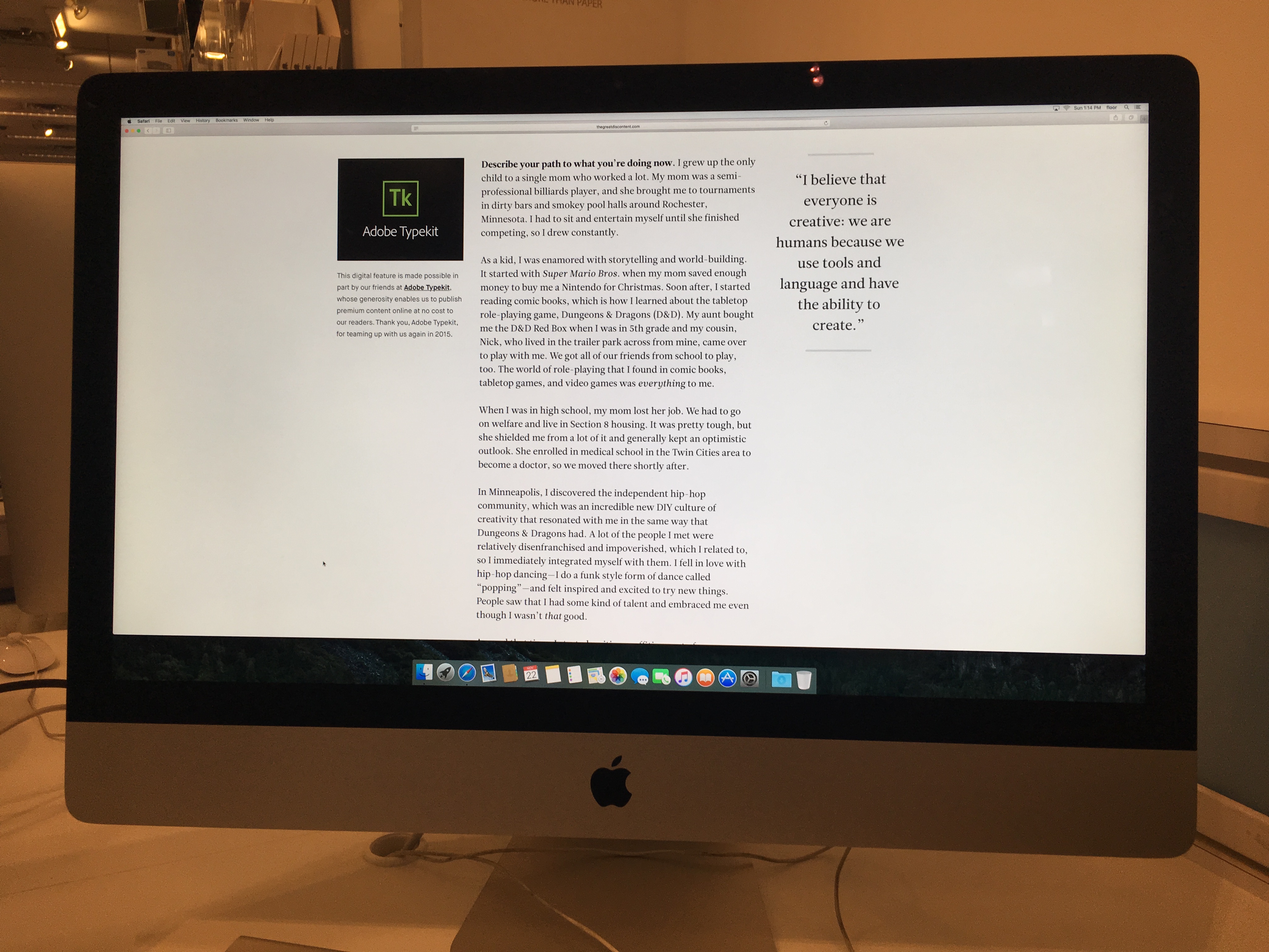
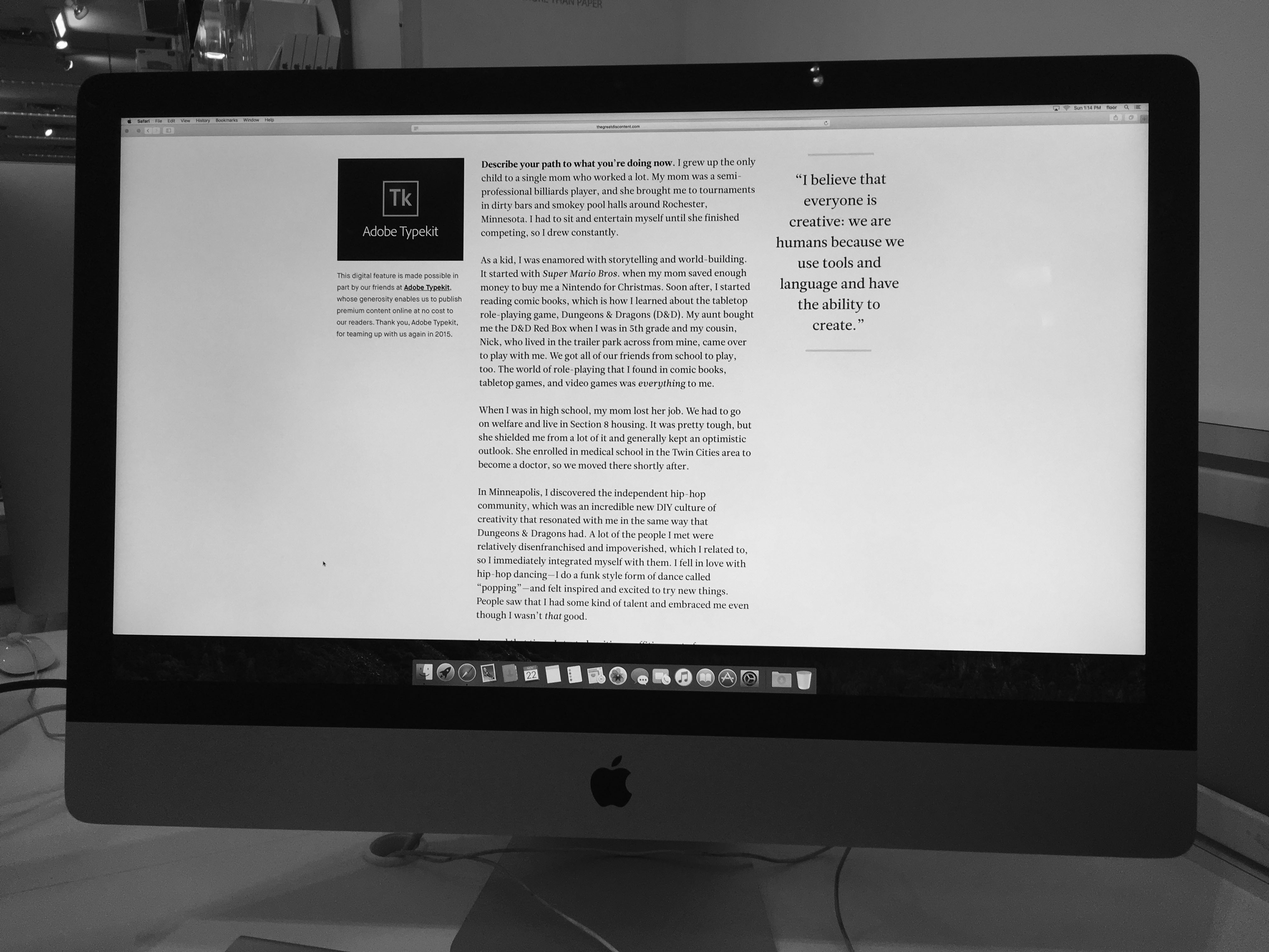
Changed images to grayscale.

diff --git a/README.md b/README.md
@@ -14,5 +14,5 @@ Our sites have typically been designed with a max dimension of 1,440 pixels wide
 
 ![alt tag](docs/hodinkee.jpg)
 
-*Hondikee's maximim width is 1,440 pixels wide. On a 4K display, 1,328 pixels occupy the space to the right and left hand side of it's design. On a 5K display, 1,840 buffers each side.*
+*Hondikee's maximim width is 1,440 pixels wide. On a 4K display, 1,328 pixels occupy the space to the right and left hand side of its design. On a 5K display, 1,840 pixels buffers each side.*
 
